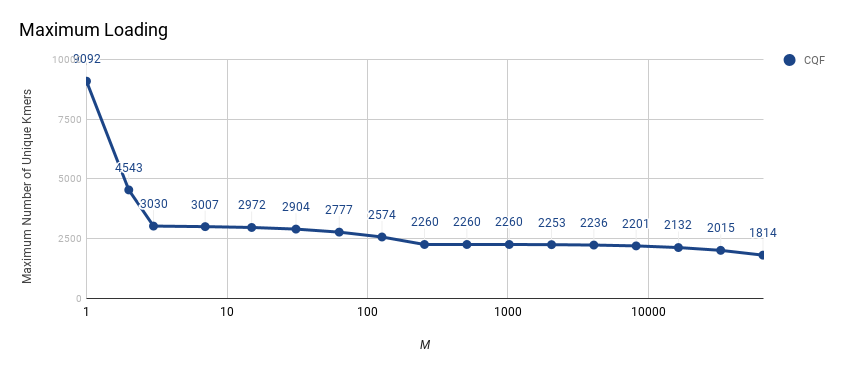
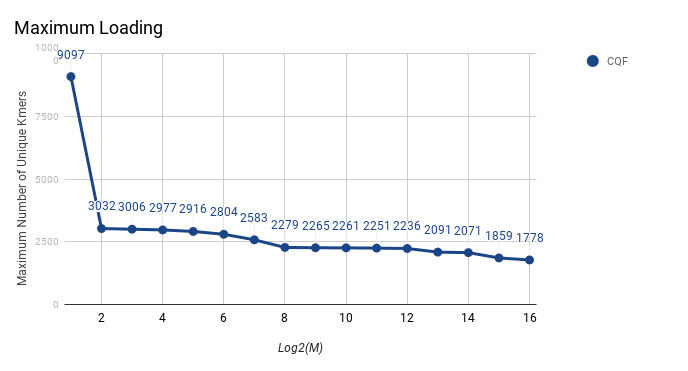
New Blog

diff --git a/_posts/2017-12-11-cqf_assessment.md b/_posts/2017-12-11-cqf_assessment.md
@@ -27,99 +27,95 @@ Cqf uses the same insertion strategy as RSQF; however, It allows counting the nu
 4. CQF uses variable size counters. So, It is suitable for counting data following ([zipifan distribution](https://en.wikipedia.org/wiki/Zipf%27s_law)) where most the items occur one or two times.
 
 
-## Tests
-1. [CQF Unit Test](#cqf-unit-test) includes: insert/query items, save/load using hard disk, and inserting highly frequent items.
-2. Load factor Test
-3. Merging Test
-4. Resizing Test
-5. Accuracy Test
+## CQF Assessment
+All the tests below can be found on my [khmer github repository](https://github.com/shokrof/khmer/tree/DibMaster).
 
-## Dataset Description
+### Install & Run
+1. Clone DibMaster branch
+2. Install Khmer [guide](http://khmer.readthedocs.io/en/v2.1.2/dev/getting-started.html).
+3. run [runTests.sh](https://github.com/shokrof/khmer/blob/DibMaster/testsCQF/runTests.sh) script to generate the test data and run all tests.
+
+### Tests:
+1. [CQF unit-test](#cqf-unit-test)
+2. [Load factor Test](#load-factor-test)
+3. [Accuracy Test](#accuracy-test)
+4. [Merging Test](#merging-test)
+5. [Resizing Test](#resizing-test)
+
+
+### Dataset Description
 
 I created a simulated dataset for testing CQF and comparing it with bloom filter and countmin sketch. I developed [script](https://github.com/shokrof/khmer/blob/DibMaster/testsCQF/generateSeq.py) to generate kmers with left skewed frequency([zipifan distribution](https://en.wikipedia.org/wiki/Zipf%27s_law)).
 
-The script generates 3 files:
-1. dataset: kmers to be counted.
-2. TruekmerCount:kmers count in format “kmer\tcount”.
-3. Unseen Kmers: kmers that don't exist in the previous dataset.
+The script generates 4 files:
+1. Zipifan dataset: kmers,following zipifan distribution, to be counted.
+2. Unique dataset: Unique kmers only.
+3. TruekmerCount:kmers count in format “kmer\tcount”.
+4. Unseen dataset: kmers that don't exist in the previous dataset.
 
-I generated 1M kmer of length 20 and 10K unseen kmers.Here is the frequency distribution for the 1M kmers
+I generated 47M kmer(1M unique kmer) of length 20 and 10K unseen kmers.Here is the frequency distribution for the 1M kmers
 ![data1000000.goldHist.png]({{ site.baseurl }}/images/data1000000.goldHist.png)
 
-## CQF Unit Test
-I used some test cases from Khmer to test CQF. The test cases cover simple insert/query items into the filter, save filter to hard disk, load from hard disk, and inserting items many times(> 65535 times). All the test cases passed except counting highly frequent items. CQF dynamically allocate bigger counters for high frequent items. However, the largest counter is 2 bytes; therefore, It can count up to 65535. If we try to count more than 65535, the counter overflows and counting stars from the beginning.
+### CQF Unit Test
+I borrowed some test cases from Khmer to test CQF. The test cases cover simple inserting/querying items into the filter, saving filter to hard disk, loading from hard disk, and inserting items many times(> 65535 times). All the test cases passed except counting highly frequent items. CQF dynamically allocate bigger counters for high frequent items. However, the largest counter is 2 bytes; therefore, It can count up to 65535. If we try to count more than 65535, the counter overflows and counting stars from the beginning.
 
-Python unit test is used to implement the [test-cases](https://github.com/shokrof/khmer/blob/DibMaster/tests/test_CQF.py)
+#### Code
+Python unit test is used to implement the [test-cases](https://github.com/shokrof/khmer/blob/DibMaster/testsCQF/test_CQF.py)
  in khmer.
-Usage: py.test tests/test_CQF.py
 
+Usage:
+~~~~
+py.test tests/test_CQF.py
+~~~~
 
-### Suggestion
+#### Suggestion
 1. qf_insert function should return false if the filter is fully loaded.
 2. Counters should have maximum values to avoid overflow. 65535 is reasonable for kmer counting application.
 
 
 
-## Load Factor Test
-[RSQF Code](https://github.com/shokrof/khmer/blob/DibMaster/testsCQF/testLoadFactor.py),[CQF Code](https://github.com/shokrof/khmer/blob/DibMaster/testsCQF/testLoadFactorCQF.py)
+### Load Factor Test
 
-I am trying to find the maximum loading factor that can achieved by cqf. I am using uniform distributed kmers dataset. I created QFCounttable by passing 8192 as input. 9152 slots are created. In Every run, I iteratively insert kmers repeated M times and record the maximum number of unique kmers that can be inserted. Values of M are 2**i-1 for i in 1:16.Result is shown in the following graph.
+I am trying to find the maximum loading factor that can achieved by cqf. I am using uniform distributed kmers dataset. I created CQF by passing 8192 as input. 9152 slots are created. In Every run, I iteratively insert kmers repeated M times and record the maximum number of unique kmers that can be inserted. Values of M are 2**i-1 for i in 1:16.Result is shown in the following graph.
 
 ![loadingCQF.png]({{ site.baseurl }}/images/loadingCQF.png)
 
+#### Code
+[CQF Code](https://github.com/shokrof/khmer/blob/DibMaster/testsCQF/testLoadFactorCQF.py)
+
+Usage:
+~~~~
+python3 testloadFactorCQF.py <dataset of uniq kmers> <SketchSize(Must be power-of-2)>  <No Repeat>
+~~~~
 
 
 
-## Size Doubling
-QF Sketches uses power-of-2 sizes. It is very efficient method since bit shifting can be used to calculate modulus operation. Also, Dividing the hash values into quotient and remaining can be done using bit masks. However, it has two disadvantages.
-1. Growing the sketches using size doubling technique is impractical for huge sketches. For example, If you want to grow 32GB sketch, you will need 64GB which may not available.
-2. Using Prime sizes avoids data clustering even when using simple bad hash functions. [ref](http://srinvis.blogspot.com.eg/2006/07/hash-table-lengths-and-prime-numbers.html)
+### Accuracy Test
+
+I am trying to compare the accuracy of Khmer implementations of cqf,bloom filter, and count-min sketch.
+
+#### Experiment 1 Quotient Filter Vs Bloom filter
+
+I am comparing Quotient Filter with Bloom Filter Test. I used Bloom filter implemented in Khmer. I could not find an implementation for Quotient Filter(RSQF), So I used CQF and unique kmers dataset. I created Bloom filter and Quotient Filter of size approximate to 524K. Then, I iteratively inserted kmers in both filters and measured the accuracy. For Accuracy, I queried the filters with new kmers and calculated the number of the false positives.
 
 
-## Merging Issue
-Mod operation is always used before adding the hash value to the sketch. Khmer uses calculate hash value mod sketch range. Since Quotient filter must use the same hash functions to be merged, Only sketches with the same range can be merged. Same range constraint is more relaxed of same sizes. Sketches with bigger sizes but smaller remaining parts can be merged as long as the haves the same number of hash-bits.
-
-From [Storage.hh](https://github.com/shokrof/khmer/blob/DibMaster/include/oxli/storage.hh): Line 438
-
-![qfadd.png]({{ site.baseurl }}/images/qfadd.png "qf")
-
-I did [experiment](https://github.com/splatlab/cqf/blob/master/main.c) to test the above theory. I tried to merge two sketches of different sizes. As expected the code fails at the merging function.
+ ![BloomVsCQF.png]({{ site.baseurl }}/images/BloomVsCQF.png)
 
 
+ As Mentioned in the paper, Quotient filter is space efficient when the accuracy is below 1/64.
+
+##### Code
+[Bloom Test](https://github.com/shokrof/khmer/blob/DibMaster/testsCQF/testSketchesAccuracy.py)
+
+Usage:
+~~~~
+python testSketchesAccuracy.py <Unique Dataset> <Unseen Data Set>
+~~~~
 
 
-## Resizing Issue
-
-
-If we need to increase the number of slots for resizing, we need to increase the q without decreasing cf.range(using the same number of hash-bits). Changing cf.range is similar to changing the hash function. So, We can increase the q and decrease remaining's size and maintain cf.range constant before and after the resizing.
-
-I found that the r is always set to 8(size +8 ). I tried to change it to lesser values(2-7), but the code fails the basic test. Therefore. I concluded we can't implement resizing technique described in cqf paper using the current cqf implementation. Unless this bug is fixed.
-
-From [Storage.hh](https://github.com/shokrof/khmer/blob/DibMaster/include/oxli/storage.hh): Line 418
-
-![QFStorageInit.png]({{site.baseurl}}/images/QFStorageInit.png)
-
-I tried to use cqf merge function to merge two equally size sketches into a bigger one, but it fails.
-
-### Suggestion
-A simpler implementation can be done using c++. SDSL library implements variable size integer arrays, Rank, and select data structures. For Kmer counting application, Cache efficiency is over optimization since it is I/O intensive application. CQF implementation will be simpler if the blocks organization idea is abandoned.
-
-## Accuracy Test
-[Script](https://github.com/shokrof/khmer/blob/DibMaster/testsCQF/runTests.sh)
-
-I am trying to compare the accuracy of Khmer implementation of both cqf and count-min sketch.
-1. I created a dataset of kmers
-2. Load the sketch using the dataset
-3. Calculate the accuracy of kmers exist in the sketch.
-4. Calculate the accuracy of kmers don’t exist in the sketch.
-
-
-
-### Experiment 1 (CQF Vs Count-min sketch):
-I did the experiment using different sketch sizes. Sketch size is an approximate number for the actual size allocated in the memory.
-
-
-I used simple accuracy measure. I calculate the absolute difference between the true count for the kmer and the observed count ([Accuracy Test Code](https://github.com/shokrof/khmer/blob/DibMaster/testsCQF/testPerfomance.py)). I drew boxplot for all the values ([Plotting Code](https://github.com/shokrof/khmer/blob/DibMaster/testsCQF/plotPerformanceBoxPlot.py)).
+#### Experiment 2 (CQF Vs Count-min sketch):
+I am comparing the accuracy of cqf and countmin sketch. I inserted kmers in Zipifan dataset into cqf and countmin sketch. Then, I queried both data-structures with kmers in zipifan dataset and unseen dataset.
+I used simple accuracy measure. I calculate the absolute difference between the true count for the kmer and the observed count. Box plot is drawn for all the differences. I repeated the experiment using different sketch sizes. Results is shown in the box plot below.
 
 ![data1000000.Exist.png]({{ site.baseurl }}/images/data1000000.Exist.png)
 
@@ -128,18 +124,75 @@ I used simple accuracy measure. I calculate the absolute difference between the 
 As Expected, The cqf has fewer errors than count-min sketch, but the cqf errors are more scattered.
 
 
-### Experiment 2 Quotient Filter Vs Bloom filter
+##### Code
+([Accuracy Test Code](https://github.com/shokrof/khmer/blob/DibMaster/testsCQF/testPerfomance.py)), ([Plotting Code](https://github.com/shokrof/khmer/blob/DibMaster/testsCQF/plotPerformanceBoxPlot.py))
 
-I am comparing Quotient Filter with Bloom Filter [Test](https://github.com/shokrof/khmer/blob/DibMaster/testsCQF/testSketchesAccuracy.py). I used Bloom filter implemented in Khmer. I could not find an implementation for Quotient Filter(RSQF), So I used CQF and Unique kmers dataset. I created Bloom filter and Quotient Filter of size approximate to 524K. Then, I iteratively inserted kmers in both filters and measured the accuracy. For Accuracy, I queried the filters with new kmers and calculated the number of the false positives.
+~~~
+parallel --gnu  -k "python3 testPerfomance.py <dataset_Prefix> {1} {2}" :::  <Sketch sizes(space seperated)>  :::  --cqf --cm > <dataset_Prefix>.result
+python3 plotPerformanceBoxPlot.py <dataset_Prefix>
+~~~
 
 
- ![BloomVsCQF.png]({{ site.baseurl }}/images/BloomVsCQF.png)
+### Merging Test
+In Merge Test, I am going to dive deep in the merging capabilities of cqf. From Theoretical view, there is some constraints on the filters that must be met before merging. Mod operation is always used before adding the hash value to the sketch. Khmer uses calculate hash value mod sketch range. Since Quotient filter must use the same hash functions to be merged, Only sketches with the same range can be merged. Same range constraint is more relaxed of same sizes. Sketches with bigger sizes but smaller remaining parts can be merged as long as the haves the same number of hash-bits.
 
- As Mentioned in the paper, Quotient filter is space efficient when the accuracy is below 1/64.
+From [Storage.hh](https://github.com/shokrof/khmer/blob/DibMaster/include/oxli/storage.hh): Line 438
 
+![qfadd.png]({{ site.baseurl }}/images/qfadd.png "qf")
+
+I did two experiments to test the above theory. First, I tried to merge two Quotient Filters with the same size into new one(also same size). CQF successfully merged the two filters. Then, I tried to merge two sketches of different sizes. As expected the code fails at the merging function.
+
+CQF can only merge filters using the same number of hashbits. Different size filters can be merged as long as they have the same number of bits; remaining parts is different in this case.
+
+#### Code
+Merging functions is not exposed to khmer library. So, I developed test cases using C linked directly to cqf library.
+[Merge Test (Same Size)](https://github.com/shokrof/khmer/blob/DibMaster/testsCQF/mergeTest_SameSize.c),
+[Merge Test (Different Size)](https://github.com/shokrof/khmer/blob/DibMaster/testsCQF/mergeTest_DifferentSize.c)
+
+
+Usage:
+~~~~
+make
+./mergeTest_SameSize
+./mergeTest_DifferentSize
+
+~~~~
+
+
+
+### Resizing Test
+
+I am testing the cqf resizing capabilities. Resizing is not implemented in the current cqf library. I am testing resizing using a workaround by merging full small cqf into empty big one.
+
+Theoretically,If we need to increase the number of slots for resizing, we need to increase the q without decreasing cf.range(using the same number of hash-bits). Changing cf.range is similar to changing the hash function. So, We can increase the q and decrease remaining's size and maintain cf.range constant before and after the resizing.
+
+I found that the r is always set to 8(size +8 ). I tried to change it to lesser values(2-7), but the code fails. I also tried to use cqf merge function to merge two equally size sketches into a bigger one, but it fails.
+
+Therefore. I concluded we can't implement resizing technique described in cqf paper using the current cqf implementation. Unless this bug is fixed.
+
+#### Code
+[Change R value test](https://github.com/shokrof/khmer/blob/DibMaster/testsCQF/mergeTest_Qbits.c) ,[Resize test](https://github.com/shokrof/khmer/blob/DibMaster/testsCQF/mergeTest_Resize.c).
+
+Usage:
+~~~~
+make
+./mergeTest_Qbits
+./mergeTest_Resize
+~~~~
+
+
+#### Suggestion
+A simpler implementation can be done using c++. SDSL library implements variable size integer arrays, Rank, and select data structures. For Kmer counting application, Cache efficiency is over optimization since it is I/O intensive application. CQF implementation will be simpler if the blocks organization idea is abandoned.
+
+
+### Size Doubling
+QF Sketches uses power-of-2 sizes. It is very efficient method since bit shifting can be used to calculate modulus operation. Also, Dividing the hash values into quotient and remaining can be done using bit masks. However, it has two disadvantages.
+1. Growing the sketches using size doubling technique is impractical for huge sketches. For example, If you want to grow 32GB sketch, you will need 64GB which may not available.
+2. Using Prime sizes avoids data clustering even when using simple bad hash functions. [ref](http://srinvis.blogspot.com.eg/2006/07/hash-table-lengths-and-prime-numbers.html)
 
 ## Assessment Summary
 ### Upsides
+1. Quotient filter is space efficient when the accuracy is below 1/64.
 
 ### Downsides
 1. When inserted kmer to fully loaded sketch the code just fail. I can’t even catch an exception.
